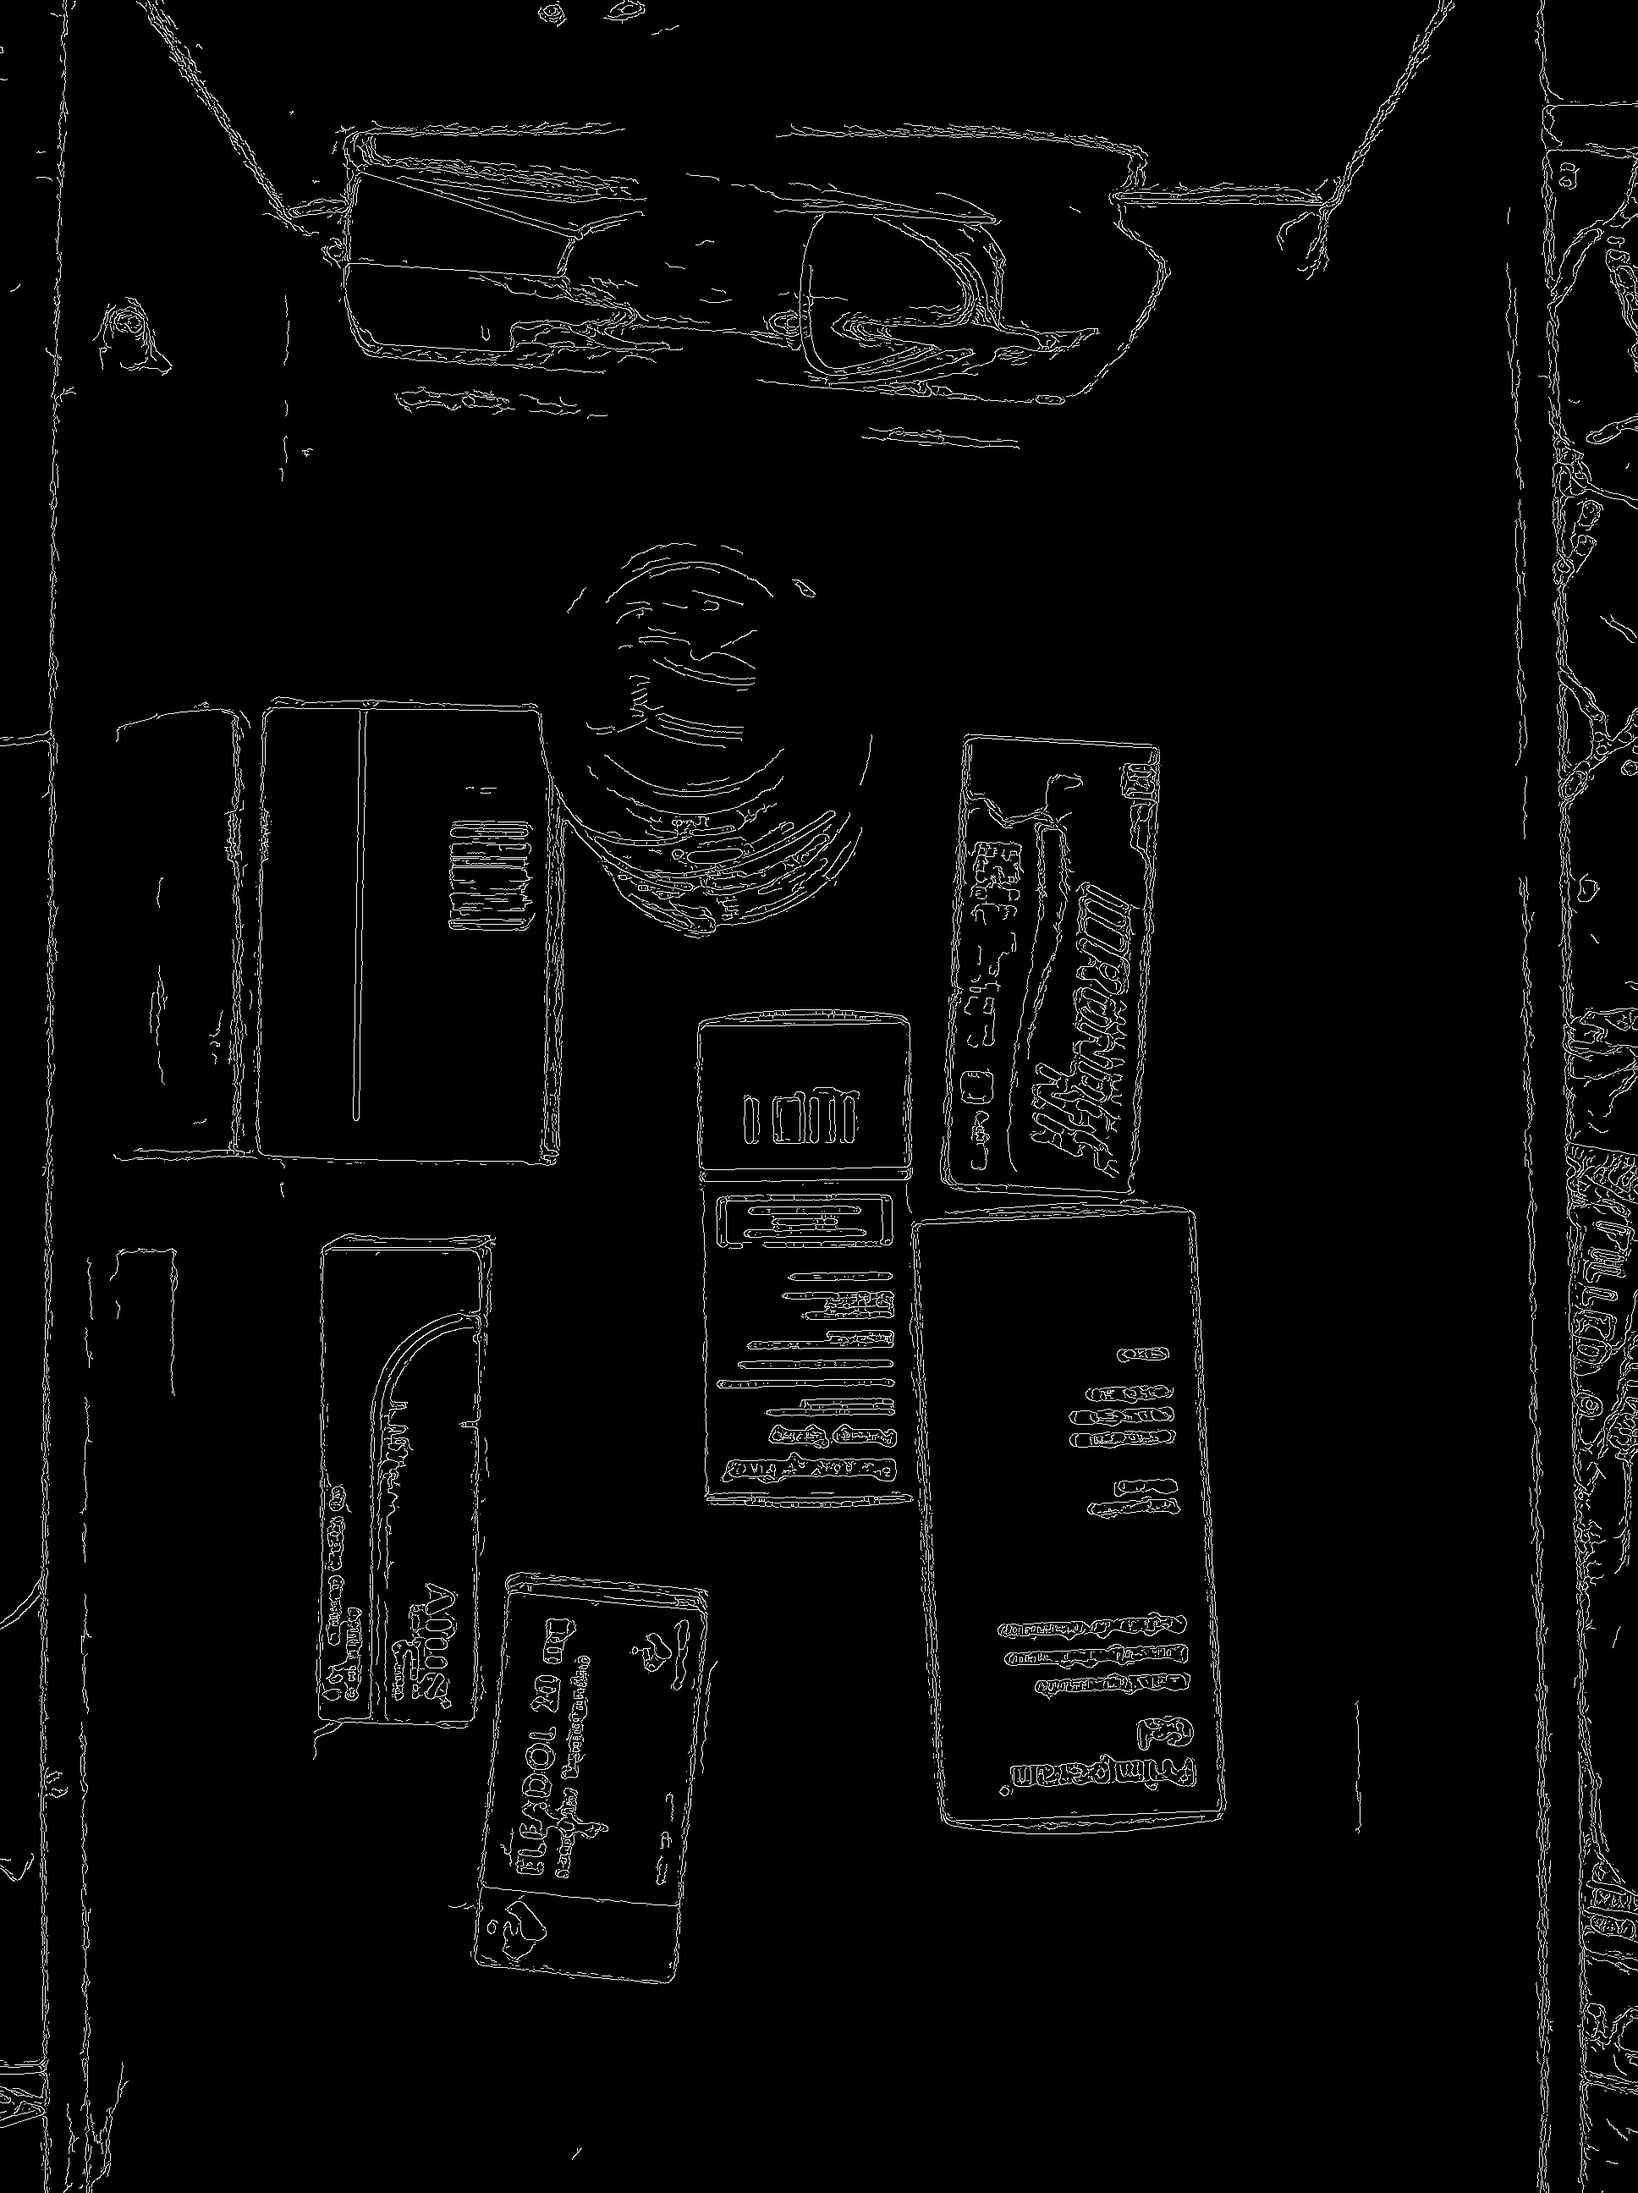
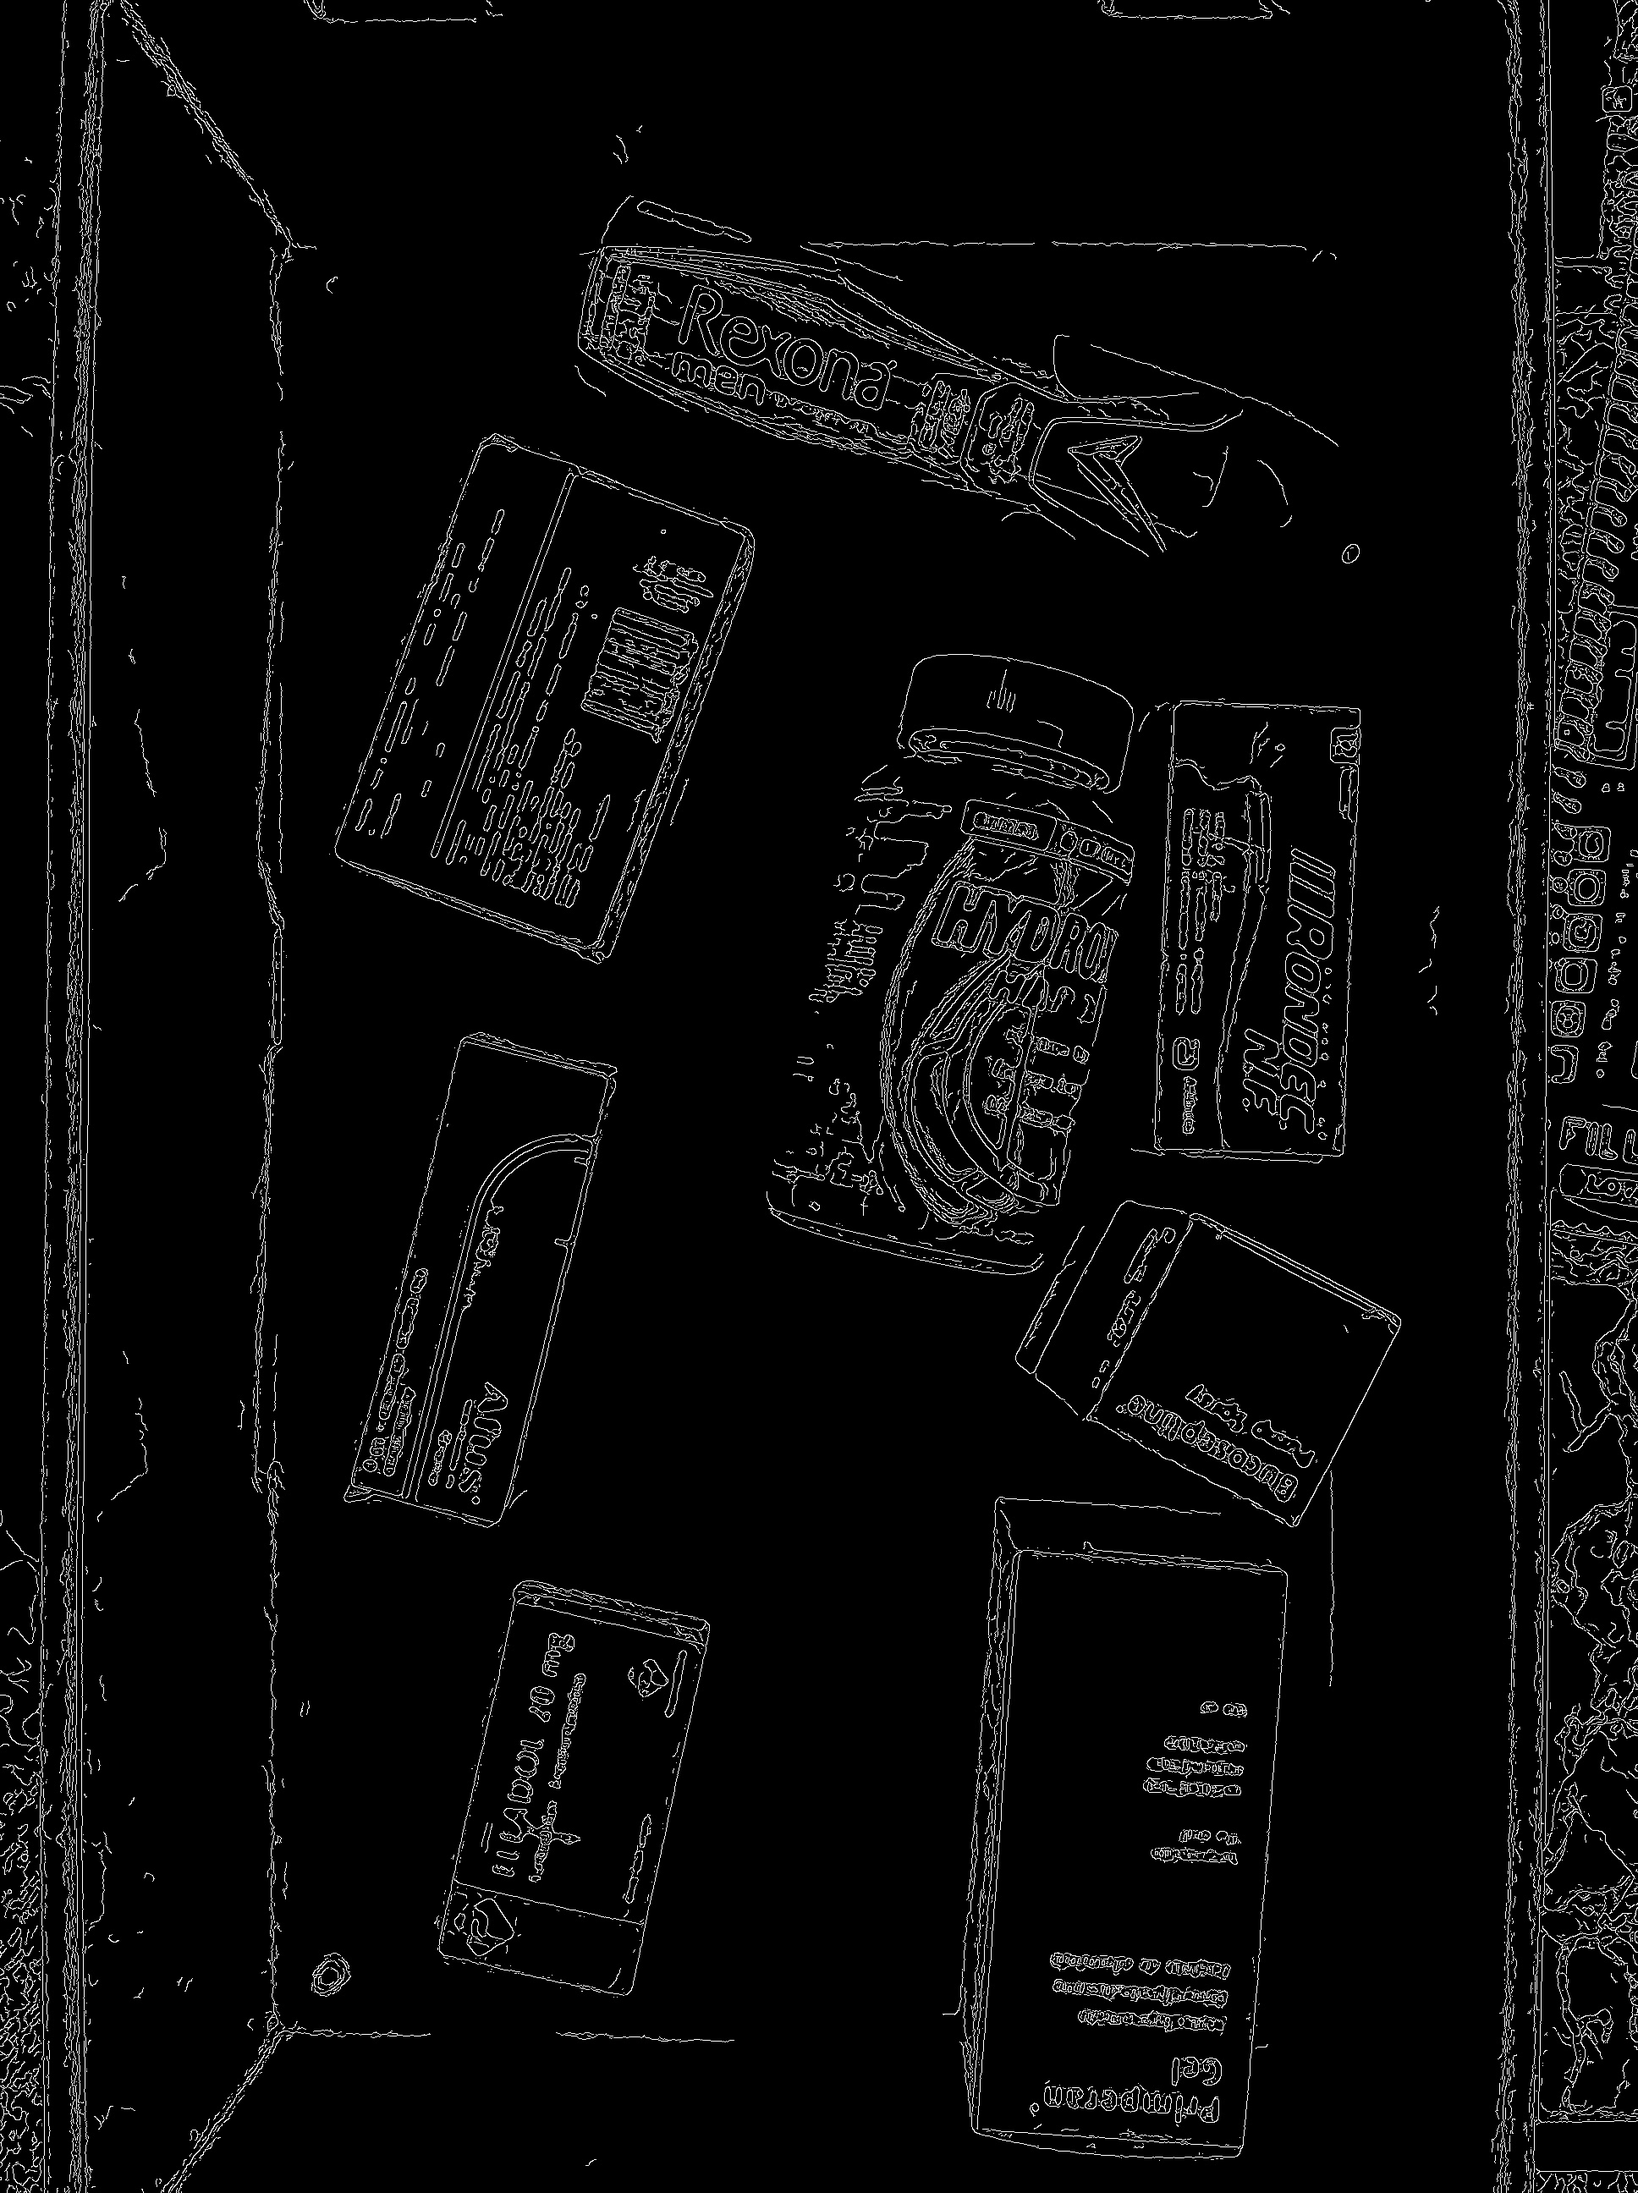
reconoce bien objetos no pegados

diff --git a/Plip/src/detectors/Canny.java b/Plip/src/detectors/Canny.java
@@ -1,3 +1,5 @@
+package detectors;
+
 import java.util.ArrayList;
 import java.util.List;
 
@@ -16,27 +18,20 @@ public class Canny {
 	public void run(){
 	
 			
-			Mat image = Highgui.imread(getClass().getResource("/IMG_0370.jpg").getPath());
+			Mat image = Highgui.imread(getClass().getResource("/IMG_0363.jpg").getPath());
 			Mat binary = new Mat();
-			binary=image;
-			// Create binary image from source image
-			Imgproc.cvtColor(image, binary, Imgproc.COLOR_BGR2GRAY);
-	  		Highgui.imwrite( "bw.jpg" , binary);
-	  		Imgproc.threshold(binary, binary, 498, 500, Imgproc.THRESH_TOZERO_INV);
-	  		Imgproc.medianBlur(binary, binary, 11);
-	  		Imgproc.equalizeHist(binary, binary);
-	  		Highgui.imwrite( "equ.jpg" , binary);
-	  		
-	  		Highgui.imwrite( "t.jpg" , binary);
 			
+			// Create binary image from source image
+			
+			Imgproc.medianBlur(image, image, 9);
 			
 //			Highgui.imwrite( "nogreen.jpg" , image);
 			Mat canny = new Mat();
-//			binary= image;
-	  		
+			binary= image;
+//	  		Imgproc.cvtColor(image, binary, Imgproc.COLOR_BGR2GRAY);
 //	  		Imgproc.bilateralFilter(binary, binary ,5, 5, 3, 2);
-	  		
-	  		Imgproc.Canny(binary, canny, 25, 50);
+	  		Highgui.imwrite( "bw.jpg" , binary);
+	  		Imgproc.Canny(binary, canny, 22, 44);
 	  		
 	  		Highgui.imwrite( "canny.jpg" , canny);
 	  		Imgproc.dilate(canny, canny, new Mat(), new Point(-1,-1), 6);
@@ -52,7 +47,7 @@ public class Canny {
 	  		System.out.println(contours.size());
 //	  		Imgproc.drawContours(canny, contours, -1, s1, -1);
 	  		
-//	  		Highgui.imwrite( "contours.jpg" , canny);
+	  		Highgui.imwrite( "contours.jpg" , canny);
 	  		Mat bigcountours = new Mat();
 	  		for (int i = 0; i < contours.size(); i++) {
 				contours.get(i).convertTo(mMOP2f1, CvType.CV_32FC2);
@@ -64,29 +59,22 @@ public class Canny {
 					count++;
 //					System.out.println(Imgproc.contourArea(approx));
 					Imgproc.drawContours(canny, contours, i, s1, -1);
-//				 	Highgui.imwrite("contour"+i+".jpg", canny);
+					Highgui.imwrite("contour"+i+".jpg", canny);
 				}
 			}
-	  		Highgui.imwrite("contours.jpg", canny);
-	  		List<MatOfPoint> dcontours = new ArrayList<MatOfPoint>();
-	  		Imgproc.distanceTransform(canny, canny, Imgproc.CV_DIST_L1, 3);
 	  		
-	  		Highgui.imwrite( "dist.jpg" , canny);
-	  		Imgproc.threshold(canny, canny, 64, 128, Imgproc.THRESH_BINARY);
-	  		Highgui.imwrite( "thres.jpg" , canny);
-//			
-	  		Mat other = new Mat();
-	  		canny.convertTo(other, CvType.CV_8UC1);
-	  		
+//	  		List<MatOfPoint> dcountours = new ArrayList<MatOfPoint>();
+//	  		Imgproc.distanceTransform(canny, canny, Imgproc.CV_DIST_L2, 3);
+//	  		Highgui.imwrite( "dist.jpg" , canny);
+//	  		Imgproc.threshold(canny, canny, 64, 128, Imgproc.THRESH_BINARY);
+//	  		Highgui.imwrite( "thres.jpg" , canny);
+//	  		Imgproc.findContours(canny, dcountours, new Mat(),
+//					Imgproc.RETR_EXTERNAL, Imgproc.CHAIN_APPROX_SIMPLE);
 	  		int realcount=0;
-	  		Imgproc.findContours(other, dcontours, new Mat(),
-					Imgproc.RETR_EXTERNAL, Imgproc.CHAIN_APPROX_SIMPLE);
-	  		Imgproc.drawContours(other, dcontours,-1, s1);
-	  		Highgui.imwrite( "other.jpg" , other);
+	  		
 //	  		}
 //	  		Highgui.imwrite("bigcontour.jpg", canny);
 	  		System.out.println(count);
-	  		System.out.println(dcontours.size());
 }
 	
 }
